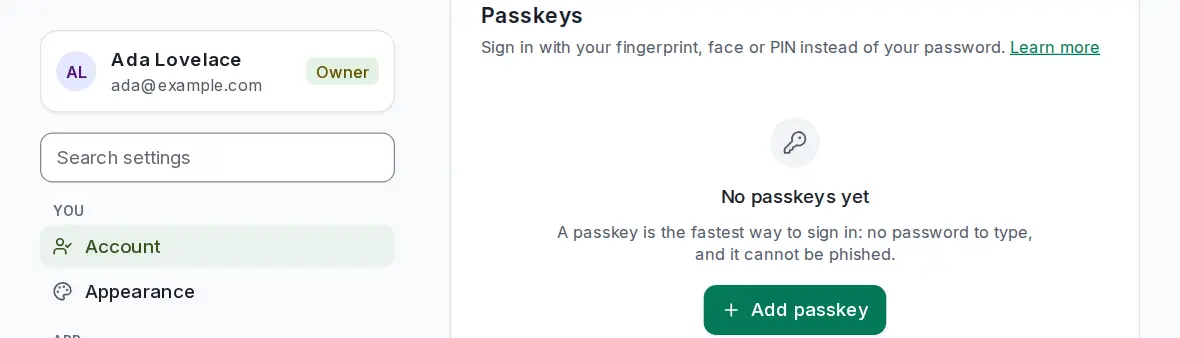
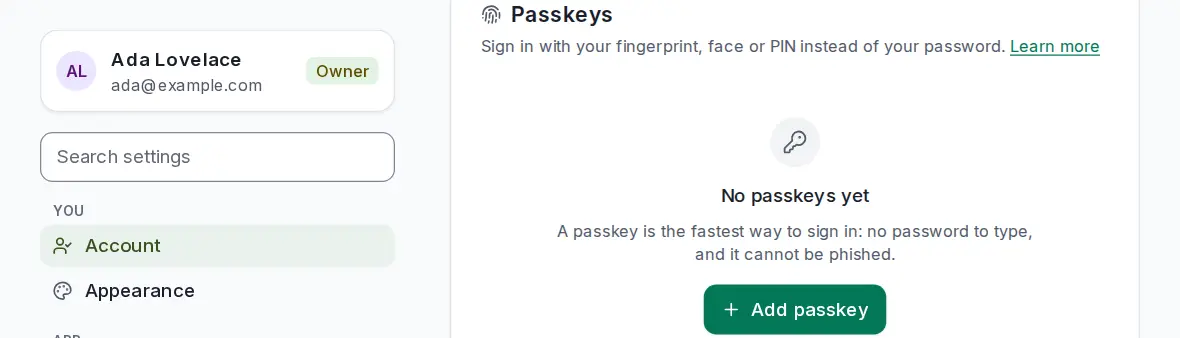
settings-refresh: docs screenshots of the refreshed Settings (WIP)
Claude-Session: https://claude.ai/code/session_01Bkw4TZLFDGeMdZR3vWZF13

diff --git a/openspec/changes/settings-refresh/tasks.md b/openspec/changes/settings-refresh/tasks.md
@@ -47,5 +47,5 @@
 ## 8. Wrap-up
 
 - [x] 8.1 CHANGELOG entries under Unreleased (Added: profile, speech service; Changed: Settings cards, Recent activity, audit log, integrations; Changed **BREAKING**-flagged: quick add numeric order follows the date format). Verify: `make docs-check` — Done: CHANGELOG under Unreleased. Upgrade notes: the breaking numeric-order change and the profile migration. Added: profile and speech service. Changed: Settings cards, Recent activity, audit log, Date and time, integrations. Verified by `make docs-check`.
-- [ ] 8.2 Docs screenshots for Settings regenerated (`make docs-screenshots settings,settings-security,members,assistant-settings,…`). Verify: `make docs-check`
+- [x] 8.2 Docs screenshots for Settings regenerated (`make docs-screenshots settings,settings-security,members,assistant-settings,…`). Verify: `make docs-check` — Done: `node scripts/docs-screenshots.mjs settings,settings-security,settings-passkeys,settings-notifications,members,assistant-settings` against a fresh build (402 KB written), then `make docs`. Verified by `make docs-check`.
 - [ ] 8.3 Full checks. Verify: `go test ./...`, `cd web && npm run lint && npm test && npm run build`, `make ci-checks`, `make e2e`, `make openspec-validate`
